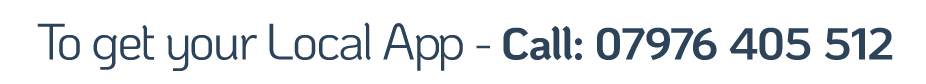
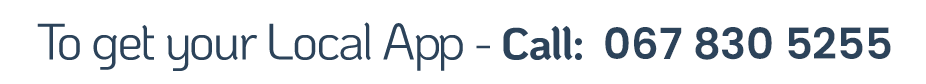
Mass Update 2

Changed region(s): [[0.635, 0.3095, 0.9676, 0.7143]]

diff --git a/index.html b/index.html
@@ -1158,11 +1158,6 @@ You will also be searchable on<br />
 					<div class="fusion-column-wrapper" style="padding: 0px 30px 0px 30px;background-position:left top;background-repeat:no-repeat;-webkit-background-size:cover;-moz-background-size:cover;-o-background-size:cover;background-size:cover;"   data-bg-url="">
 						<div class="imageframe-align-center"><span class="fusion-imageframe imageframe-none imageframe-9 hover-type-none fusion-no-small-visibility fusion-no-medium-visibility"><img decoding="async" loading="lazy" src="wp-content/uploads/2019/08/icons-15.png" width="1582" height="116" alt="" title="icons-15" class="img-responsive wp-image-6888" srcset="wp-content/uploads/2019/08/icons-15-200x15.png 200w, wp-content/uploads/2019/08/icons-15-400x29.png 400w, wp-content/uploads/2019/08/icons-15-600x44.png 600w, wp-content/uploads/2019/08/icons-15-800x59.png 800w, wp-content/uploads/2019/08/icons-15-1200x88.png 1200w, wp-content/uploads/2019/08/icons-15.png 1582w" sizes="(max-width: 800px) 100vw, 1582px" /></span></div><div class="fusion-clearfix"></div>
 
-				</div></div></div><div id="search-section" class="fusion-fullwidth fullwidth-box search-section hundred-percent-fullwidth non-hundred-percent-height-scrolling fusion-equal-height-columns"  style='background-color: #dadde1;background-position: center center;background-repeat: no-repeat;padding-top:10px;padding-right:0px;padding-bottom:10px;padding-left:0px;margin-top: 15px;'><div class="fusion-builder-row fusion-row "><div  class="fusion-layout-column fusion_builder_column fusion_builder_column_1_1 fusion-builder-column-17 fusion-one-full fusion-column-first fusion-column-last fusion-no-small-visibility fusion-column-no-min-height 1_1"  style='margin-top:0px;margin-bottom:0px;'>
-					<div class="fusion-column-wrapper" style="padding: 0px 30px 0px 30px;background-position:left top;background-repeat:no-repeat;-webkit-background-size:cover;-moz-background-size:cover;-o-background-size:cover;background-size:cover;"   data-bg-url="">
-						<div class="imageframe-align-center"><span style="width:100%;max-width:572px;" class="fusion-imageframe imageframe-none imageframe-10 hover-type-none fusion-no-small-visibility"><a class="fusion-no-lightbox" href="tel:07976405512" target="_self" aria-label="get-your-app-strap"><img decoding="async" loading="lazy" src="wp-content/uploads/2019/08/get-your-app-strap.png" width="863" height="92" alt="" class="img-responsive wp-image-6915" srcset="wp-content/uploads/2019/08/get-your-app-strap-200x21.png 200w, wp-content/uploads/2019/08/get-your-app-strap-400x43.png 400w, wp-content/uploads/2019/08/get-your-app-strap-600x64.png 600w, wp-content/uploads/2019/08/get-your-app-strap-800x85.png 800w, wp-content/uploads/2019/08/get-your-app-strap.png 863w" sizes="(max-width: 800px) 100vw, 863px" /></a></span></div><div class="fusion-clearfix"></div>
-
-					</div>
 				</div><div  class="fusion-layout-column fusion_builder_column fusion_builder_column_1_1 fusion-builder-column-18 fusion-one-full fusion-column-first fusion-column-last fusion-no-medium-visibility fusion-no-large-visibility fusion-column-no-min-height 1_1"  style='margin-top:0px;margin-bottom:0px;'>
 					<div class="fusion-column-wrapper" style="padding: 0px 30px 0px 30px;background-position:left top;background-repeat:no-repeat;-webkit-background-size:cover;-moz-background-size:cover;-o-background-size:cover;background-size:cover;"   data-bg-url="">
 						<div class="imageframe-align-center"><span style="width:100%;max-width:334px;" class="fusion-imageframe imageframe-none imageframe-11 hover-type-none fusion-no-medium-visibility fusion-no-large-visibility"><a class="fusion-no-lightbox" href="tel:07976405512" target="_self" aria-label="get-your-app-strap-mobile"><img decoding="async" loading="lazy" src="wp-content/uploads/2019/08/get-your-app-strap-mobile.png" width="501" height="111" alt="" class="img-responsive wp-image-6914" srcset="wp-content/uploads/2019/08/get-your-app-strap-mobile-200x44.png 200w, wp-content/uploads/2019/08/get-your-app-strap-mobile-400x89.png 400w, wp-content/uploads/2019/08/get-your-app-strap-mobile.png 501w" sizes="(max-width: 800px) 100vw, 501px" /></a></span></div><div class="fusion-clearfix"></div>
